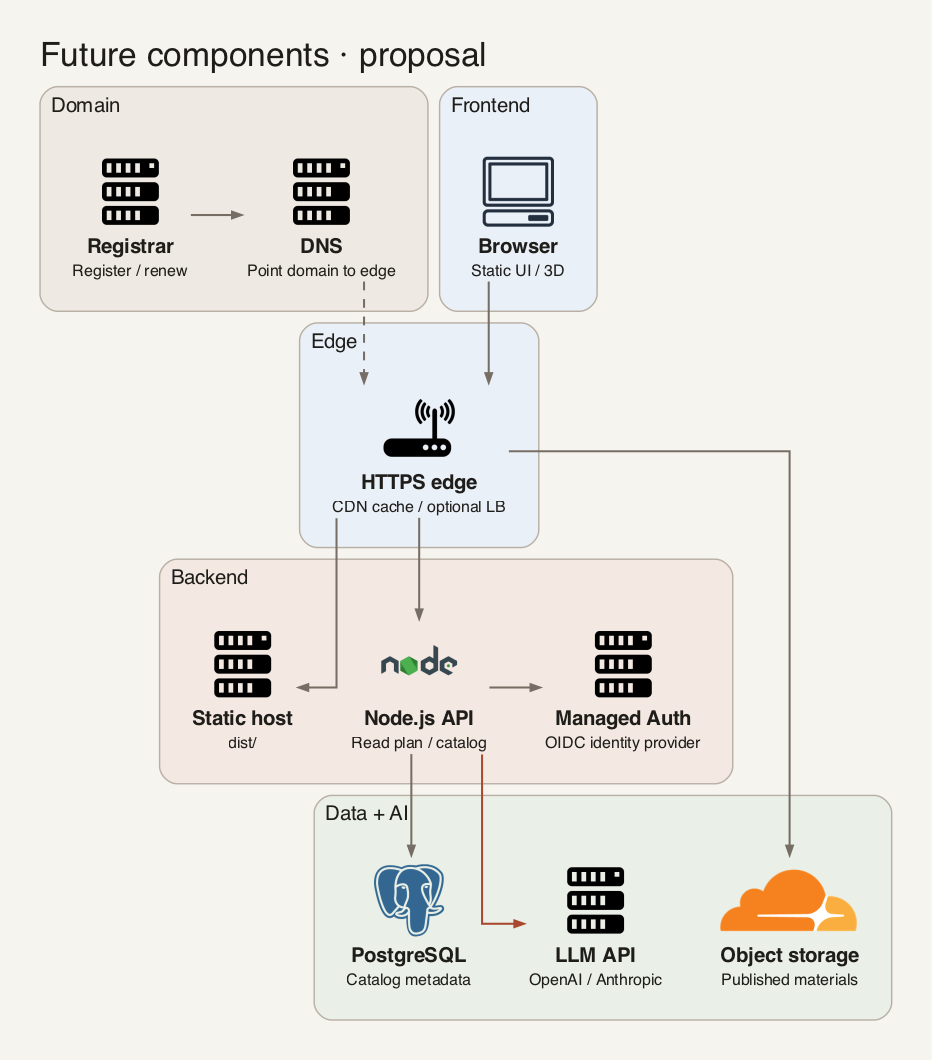
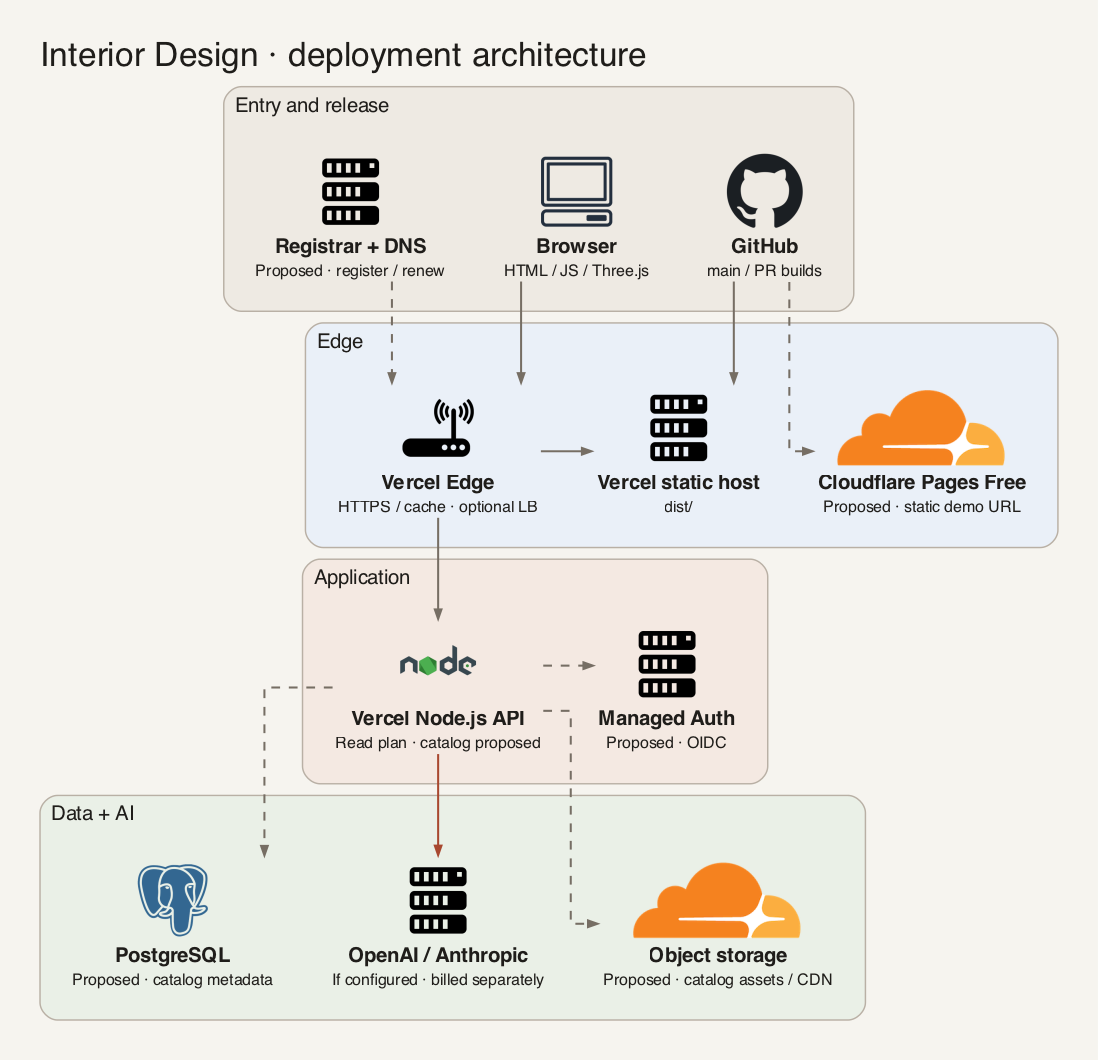
docs: centralize deployment guide and use one architecture diagram

diff --git a/docs/visual/deployment/render.py b/docs/visual/deployment/render.py
@@ -97,75 +97,34 @@ def same_row(cluster, *nodes):
             row.node(node.nodeid)
 
 
-with diagram("Current deployment · Vercel", "deployment"):
-    with layer("Build", BUILD):
-        repo = service(Github, "GitHub", "main / pull requests")
-    with layer("Frontend", FRONTEND) as frontend:
-        static = service(Server, "Vercel static site", "dist/")
-        browser = service(Client, "Browser", "Three.js / WebGL")
-        edge = service(Server, "Vercel edge", "Managed CDN / cache")
-        same_row(frontend, static, edge, browser)
-    with layer("Service", SERVICE):
-        read_plan = service(NodeJS, "Vercel Node.js Function", "Fast Route · POST /api/read-plan")
-    with layer("External", DATA):
-        model = service(Server, "OpenAI / Anthropic", "Usage billed separately")
-
-    repo >> static >> edge >> browser
-    edge >> Edge(style="dashed") >> read_plan
-    read_plan >> Edge(color=ACCENT) >> model
-
-with diagram("Proposed free static demo", "free-static-preview"):
-    with layer("Build and delivery", BUILD) as build:
-        source = service(Github, "GitHub", "Same build script")
-        pages = service(Cloudflare, "Cloudflare Pages Free", "dist/ · *.pages.dev")
-        same_row(build, source, pages)
-    with layer("Frontend", FRONTEND):
-        browser = service(Client, "Browser", "3D and sample data")
-
-    source >> pages >> browser
-
-with diagram("Future material library · proposal", "material-library"):
-    with layer("Frontend", FRONTEND):
-        browser = service(Client, "Browser", "Browse materials")
-    with layer("Service + CDN", SERVICE) as services:
-        catalog = service(NodeJS, "Catalog API", "GET /api/materials")
-        cdn = service(Cloudflare, "CDN", "Approved asset URLs")
-        same_row(services, catalog, cdn)
-    with layer("Data", DATA) as data:
-        metadata = service(Postgresql, "PostgreSQL", "Metadata + object keys")
-        files = service(Cloudflare, "R2 object storage", "Published files")
-        same_row(data, metadata, files)
-
-    browser >> catalog >> metadata
-    browser >> cdn >> files
-
-
-with diagram("Future components · proposal", "component-stack"):
-    with layer("Domain", BUILD) as domain:
-        registrar = service(Server, "Registrar", "Register / renew")
-        dns = service(Server, "DNS", "Point domain to edge")
-        same_row(domain, registrar, dns)
-    with layer("Frontend", FRONTEND):
-        browser = service(Client, "Browser", "Static UI / 3D")
-    with layer("Edge", FRONTEND):
-        edge = service(Router, "HTTPS edge", "CDN cache / optional LB")
-    with layer("Backend", SERVICE) as backend:
-        frontend = service(Server, "Static host", "dist/")
-        api = service(NodeJS, "Node.js API", "Read plan / catalog")
-        identity = service(Server, "Managed Auth", "OIDC identity provider")
-        same_row(backend, frontend, api, identity)
+with diagram("Interior Design · deployment architecture", "component-stack"):
+    with layer("Entry and release", BUILD) as entry:
+        registrar = service(Server, "Registrar + DNS", "Proposed · register / renew")
+        browser = service(Client, "Browser", "HTML / JS / Three.js")
+        repo = service(Github, "GitHub", "main / PR builds")
+        same_row(entry, registrar, browser, repo)
+    with layer("Edge", FRONTEND) as delivery:
+        edge = service(Router, "Vercel Edge", "HTTPS / cache · optional LB")
+        static = service(Server, "Vercel static host", "dist/")
+        free = service(Cloudflare, "Cloudflare Pages Free", "Proposed · static demo URL")
+        same_row(delivery, edge, static, free)
+    with layer("Application", SERVICE) as application:
+        api = service(NodeJS, "Vercel Node.js API", "Read plan · catalog proposed")
+        identity = service(Server, "Managed Auth", "Proposed · OIDC")
+        same_row(application, api, identity)
     with layer("Data + AI", DATA) as dependencies:
-        db = service(Postgresql, "PostgreSQL", "Catalog metadata")
-        objects = service(Cloudflare, "Object storage", "Published materials")
-        models = service(Server, "LLM API", "OpenAI / Anthropic")
-        same_row(dependencies, db, objects, models)
+        db = service(Postgresql, "PostgreSQL", "Proposed · catalog metadata")
+        models = service(Server, "OpenAI / Anthropic", "If configured · billed separately")
+        objects = service(Cloudflare, "Object storage", "Proposed · catalog assets / CDN")
+        same_row(dependencies, db, models, objects)
 
-    registrar >> dns
-    dns >> Edge(style="dashed") >> edge
+    registrar >> Edge(style="dashed") >> edge
     browser >> edge
-    edge >> frontend
+    repo >> static
+    repo >> Edge(style="dashed") >> free
+    edge >> static
     edge >> api
-    edge >> objects
-    api >> identity
-    api >> db
+    api >> Edge(style="dashed") >> identity
+    api >> Edge(style="dashed") >> db
+    api >> Edge(style="dashed") >> objects
     api >> Edge(color=ACCENT) >> models

diff --git a/README.md b/README.md
@@ -16,69 +16,6 @@ Describe your space with **voice or text and reference images**. Explore a **3D 
 
 ## Deployment
 
-![Current deployment on Vercel, from GitHub to the browser, Node.js Function and model provider](docs/visual/deployment/deployment.png)
+![Overall deployment diagram showing the current request path and proposed components](docs/visual/deployment/component-stack.png)
 
-- **Today.** GitHub → Vercel Git integration, the same delivery pattern as Music Taste Match. `main` builds production and pull requests get previews. [Build script](scripts/build-site.sh) · [Vercel config](vercel.json) · [Live prototype](https://interior-design-gules-pi.vercel.app/)
-- **Start with free hosting.** Keep the existing Vercel deployment and evaluate Cloudflare Pages Free in parallel for a static demo. From the repository root, run `npm ci` if dependencies are not already installed, build with `sh scripts/build-site.sh`, and publish `dist/` to the included `*.pages.dev` address. Static requests are free and unlimited. The free plan allows 500 builds per month and 25 MiB per file. Confirm access to the organization repo and reproduce the response headers in `vercel.json` before switching traffic. Real Fast Route parsing requires a separate API and usage budget. Vercel Hobby is for personal, non-commercial use and cannot connect directly to an organization-owned Git repository. [Pages limits](https://developers.cloudflare.com/pages/platform/limits/) · [Pages pricing](https://developers.cloudflare.com/pages/functions/pricing/) · [GitHub integration](https://developers.cloudflare.com/pages/configuration/git-integration/github-integration/) · [Vercel pricing](https://vercel.com/pricing) · [Git integration limits](https://vercel.com/docs/limits#git)
-
-![Proposed free static demo on Cloudflare Pages, using the same build output and sample data](docs/visual/deployment/free-static-preview.png)
-
-Regenerate the diagrams with Graphviz on your PATH and `uvx --from diagrams==0.25.1 python docs/visual/deployment/render.py`. [Diagram source](docs/visual/deployment/render.py)
-
-### Frontend build and runtime
-
-The site uses HTML, CSS and native JavaScript modules. `sh scripts/build-site.sh` assembles HTML, JavaScript, styles, images and 3D assets into `dist/`. esbuild bundles the 3D retry entry, and Vercel serves the output as static files. [Build script](scripts/build-site.sh#L7-L16) · [3D retry bundle](scripts/bundle-room.mjs#L7-L20)
-
-| Entry | What runs in the browser |
-| --- | --- |
-| [`/` · Quiet Oak](https://interior-design-gules-pi.vercel.app/) | Hash routes, demo uploads and estimates, and interactive Three.js/WebGL 3D. The main demo keeps its project state in memory. |
-| [`/fast-route/` · Fast Route](https://interior-design-gules-pi.vercel.app/fast-route/) | Quick style selection, client-rendered 3D and browser-local progress. Floor-plan recognition uses the Function below. |
-| [`/style-studio/prototype/` · Style Studio](https://interior-design-gules-pi.vercel.app/style-studio/prototype/) | Style exploration, browser-local settings and 3D preview. This entry loads Three.js from jsDelivr. |
-
-The three production HTML entry points and `oak.js` matched the files built locally from the reference commit below.
-
-### Backend and model invocation
-
-1. **Packaging.** Vercel installs dependencies from the root `package.json`. The build script produces `dist/` for the frontend. In the same Vercel project, the root `api/read-plan.js` deploys separately as a Node.js Function and imports the OpenAI and Anthropic SDKs. The demo requires no separate backend package, container, database or GPU server. [Build script](scripts/build-site.sh) · [Dependencies](package.json) · [Vercel Node.js runtime](https://vercel.com/docs/functions/runtimes/node-js)
-2. **Trigger.** Fast Route sends a floor-plan image or PDF from the browser to the same-origin `POST /api/read-plan`. The main Quiet Oak demo simulates floor-plan parsing and renders 3D and demo estimates in the browser. [Fast Route upload](prototype/fast-route/app.js#L382-L431) · [Quiet Oak upload](prototype/wireframe/oak.js#L353-L370)
-3. **Invocation.** The Function reads server-side environment variables. With an OpenAI key it calls `responses.create`. If only the Anthropic key exists, it calls `beta.messages.stream` and waits for the final message. The Function sends the file and a structured-output schema to one provider, then returns rooms and dimensions as JSON. A failed OpenAI request does not trigger a Claude request. Failed parsing preserves existing rooms or uses the demo template for the initial attempt. Model usage is billed separately. [Model calls and routing](api/read-plan.js#L13-L67) · [Browser fallback](prototype/fast-route/app.js#L413-L425)
-
-The production route returned HTTP 405 to a GET request, as designed. This verifies that the Function responds. Provider configuration and successful model invocation with a real file remain unverified. [Reference commit](https://github.com/Cathay-AI/interior-design/commit/034a1c42ea3dd1b8dd4e925a2ab2f0c79411b55f)
-
-### Components and deliverables
-
-![Proposed components covering the domain, frontend, edge, API, identity, database, object storage and LLM API](docs/visual/deployment/component-stack.png)
-
-| Component | Today | Future deliverable |
-| --- | --- | --- |
-| Domain, edge and load balancing | Vercel provides the default domain and managed ingress. The site homepage returned `x-vercel-cache: HIT`. | Registrar handles registration and renewal. DNS points to the TLS and CDN ingress. Keep managed routing with one origin. Add a load balancer, health checks and failover when multiple origins or regional resilience are needed. |
-| Frontend and cache | The static `dist/` ships independently. Read-plan responses use `no-store`. | Long CDN caching for versioned public files, revalidation for HTML, and short CDN caching for public catalog GETs if freshness permits. Keep auth, private files and read-plan responses out of shared caches. Start with the CDN cache. |
-| Backend API and LLM API | The same-origin Vercel Node.js Function handles `POST /api/read-plan` and calls the model from the server. | Deliver Node.js HTTP handlers, an OpenAPI contract and an environment-variable template. Keep model adapters on the server, with provider configuration, quotas and usage alerts. The Function is the first deployment form. |
-| Auth | Demo flows have no account service. | Add a managed OIDC provider when login, cross-device progress or moderation is needed. Deliver callback and role configuration, with identity and access checks in the API. |
-| DB and object storage | Sample data ships with the frontend. Some progress stays in the browser. | Deliver PostgreSQL schema, SQL migrations and a backup/restore procedure. For binary assets, deliver S3-compatible bucket configuration, permissions and an object manifest. |
-
-Start with a free static demo. Add services and budget as sign-in, searchable assets, or real AI parsing become necessary. The optional load balancer is for multiple origins. [Vercel CDN](https://vercel.com/docs/cdn) · [Cache headers](https://vercel.com/docs/headers/cache-control-headers) · [Load-balancing components](https://developers.cloudflare.com/load-balancing/understand-basics/load-balancing-components/) · [OIDC](https://openid.net/specs/openid-connect-core-1_0.html)
-
-### Migration options
-
-1. **Frontend and API.** Republish the same `dist/` to another static host. Keep the Node.js handlers behind a Vercel request/response adapter. When moving compute, replace the adapter and preserve paths, response contracts and timeout tests.
-2. **Data and identity.** Rehearse PostgreSQL backup/restore and verify row counts. Copy objects by key and compare the manifest. Map the OIDC `issuer` and `subject` to an internal user ID, and verify account mapping and sign-in before changing providers. Rehearse integrity checks, the write pause and rollback with your actual data volume. [PostgreSQL dump](https://www.postgresql.org/docs/current/app-pgdump.html) · [S3-compatible API](https://developers.cloudflare.com/r2/api/s3/api/)
-3. **Traffic.** Verify HTTPS, sign-in, asset delivery and read-plan on a staging domain. Keep the custom domain and switch DNS or the managed ingress to the new origin. Rehearse rollback and keep the old origin until verification is complete.
-
-### Future material library
-
-![Proposed material-library layers showing a browser, catalog API, CDN, PostgreSQL and object storage](docs/visual/deployment/material-library.png)
-
-1. **Frontend.** The browser calls `GET /api/materials` for filters and item metadata, then uses returned versioned URLs to load approved thumbnails, textures and GLB models directly from the CDN.
-2. **Service.** Start with a catalog API in the existing Vercel project. It returns published items only. A publishing flow can stage uploads in private object storage, approve the asset and its license, then publish the approved version and its catalog record. The existing read-plan Function continues to handle model calls.
-3. **Data.** Use PostgreSQL for searchable metadata such as ID, material category, style, dimensions, source, license, version, publish status and object key. Keep image and model files in S3-compatible object storage. Cloudflare R2 is one option. Use separate public and private buckets so staged files and customer floor plans stay outside the public catalog. [PostgreSQL indexes](https://www.postgresql.org/docs/current/indexes-intro.html) · [R2 public buckets](https://developers.cloudflare.com/r2/data-access/public-buckets/) · [R2 signed URLs](https://developers.cloudflare.com/r2/api/s3/presigned-urls/)
-
-Keep the current demo assets in `dist/` until the catalog needs independent updates, search, or asset approval. The proposed API and storage are future work.
-
-### Domain and DNS
-
-1. **Prototype.** Use the current Vercel URL or the included `*.pages.dev` address for a Cloudflare static preview. Domain registration costs nothing at this stage.
-2. **Public launch.** Reuse an organization-owned subdomain if one is available. For Cloudflare Pages, add the subdomain to the Pages project first, then point a DNS CNAME record to `<project>.pages.dev`. This can use the existing DNS provider. Using an apex domain such as `example.com` directly on Pages requires Cloudflare nameservers. For the full prototype on Vercel, add the domain to that project and use the DNS records it displays. [Cloudflare Pages custom domains](https://developers.cloudflare.com/pages/configuration/custom-domains/) · [Vercel custom domains](https://vercel.com/docs/domains/working-with-domains/add-a-domain)
-3. **New brand domain.** Cloudflare Registrar lists standard `.com` registration at **US$11.17 for the first year** and **US$11.17 for renewal** as of 2026-11-20. Confirm the chosen name, availability, final checkout price and renewal before purchasing. It uses Cloudflare nameservers. [Registrar pricing](https://pricing.registrar.cloudflare.com/?q=com) · [Registrar requirements](https://developers.cloudflare.com/registrar/get-started/register-domain/)
-
-Before sharing the new address, verify HTTPS and the intended site entry points. Fast Route browser-saved progress is tied to the original site address, so a custom domain starts with separate browser storage.
+[Deployment guide](docs/engineering/deployment.md)

diff --git a/docs/engineering/deployment.md b/docs/engineering/deployment.md
@@ -1,0 +1,66 @@
+# Deployment architecture and operations
+
+[繁體中文](deployment.zh-TW.md)
+
+![Overall deployment diagram showing the current request path and proposed components](../visual/deployment/component-stack.png)
+
+Solid arrows show the current deployment, including the conditional model call. Dashed arrows show proposed integrations.
+
+- **Today.** GitHub → Vercel Git integration, the same delivery pattern as Music Taste Match. `main` builds production and pull requests get previews. [Build script](../../scripts/build-site.sh) · [Vercel config](../../vercel.json) · [Live prototype](https://interior-design-gules-pi.vercel.app/)
+- **Start with free hosting.** Keep the existing Vercel deployment and evaluate Cloudflare Pages Free in parallel for a static demo. From the repository root, run `npm ci` if dependencies are not already installed, build with `sh scripts/build-site.sh`, and publish `dist/` to the included `*.pages.dev` address. Static requests are free and unlimited. The free plan allows 500 builds per month and 25 MiB per file. Confirm access to the organization repo and reproduce the response headers in `vercel.json` before switching traffic. Real Fast Route parsing requires a separate API and usage budget. Vercel Hobby is for personal, non-commercial use and cannot connect directly to an organization-owned Git repository. [Pages limits](https://developers.cloudflare.com/pages/platform/limits/) · [Pages pricing](https://developers.cloudflare.com/pages/functions/pricing/) · [GitHub integration](https://developers.cloudflare.com/pages/configuration/git-integration/github-integration/) · [Vercel pricing](https://vercel.com/pricing) · [Git integration limits](https://vercel.com/docs/limits#git)
+
+Regenerate the diagram with Graphviz on your PATH and `uvx --from diagrams==0.25.1 python docs/visual/deployment/render.py`. [Diagram source](../../docs/visual/deployment/render.py)
+
+## Frontend build and runtime
+
+The site uses HTML, CSS and native JavaScript modules. `sh scripts/build-site.sh` assembles HTML, JavaScript, styles, images and 3D assets into `dist/`. esbuild bundles the 3D retry entry, and Vercel serves the output as static files. [Build script](../../scripts/build-site.sh#L7-L16) · [3D retry bundle](../../scripts/bundle-room.mjs#L7-L20)
+
+| Entry | What runs in the browser |
+| --- | --- |
+| [`/` · Quiet Oak](https://interior-design-gules-pi.vercel.app/) | Hash routes, demo uploads and estimates, and interactive Three.js/WebGL 3D. The main demo keeps its project state in memory. |
+| [`/fast-route/` · Fast Route](https://interior-design-gules-pi.vercel.app/fast-route/) | Quick style selection, client-rendered 3D and browser-local progress. Floor-plan recognition uses the Function below. |
+| [`/style-studio/prototype/` · Style Studio](https://interior-design-gules-pi.vercel.app/style-studio/prototype/) | Style exploration, browser-local settings and 3D preview. This entry loads Three.js from jsDelivr. |
+
+The three production HTML entry points and `oak.js` matched the files built locally from the reference commit below.
+
+## Backend and model invocation
+
+1. **Packaging.** Vercel installs dependencies from the root `package.json`. The build script produces `dist/` for the frontend. In the same Vercel project, the root `api/read-plan.js` deploys separately as a Node.js Function and imports the OpenAI and Anthropic SDKs. The demo requires no separate backend package, container, database or GPU server. [Build script](../../scripts/build-site.sh) · [Dependencies](../../package.json) · [Vercel Node.js runtime](https://vercel.com/docs/functions/runtimes/node-js)
+2. **Trigger.** Fast Route sends a floor-plan image or PDF from the browser to the same-origin `POST /api/read-plan`. The main Quiet Oak demo simulates floor-plan parsing and renders 3D and demo estimates in the browser. [Fast Route upload](../../prototype/fast-route/app.js#L382-L431) · [Quiet Oak upload](../../prototype/wireframe/oak.js#L353-L370)
+3. **Invocation.** The Function reads server-side environment variables. With an OpenAI key it calls `responses.create`. If only the Anthropic key exists, it calls `beta.messages.stream` and waits for the final message. The Function sends the file and a structured-output schema to one provider, then returns rooms and dimensions as JSON. A failed OpenAI request does not trigger a Claude request. Failed parsing preserves existing rooms or uses the demo template for the initial attempt. Model usage is billed separately. [Model calls and routing](../../api/read-plan.js#L13-L67) · [Browser fallback](../../prototype/fast-route/app.js#L413-L425)
+
+The production route returned HTTP 405 to a GET request, as designed. This verifies that the Function responds. Provider configuration and successful model invocation with a real file remain unverified. [Reference commit](https://github.com/Cathay-AI/interior-design/commit/034a1c42ea3dd1b8dd4e925a2ab2f0c79411b55f)
+
+## Components and deliverables
+
+| Component | Today | Future deliverable |
+| --- | --- | --- |
+| Domain, edge and load balancing | Vercel provides the default domain and managed ingress. The site homepage returned `x-vercel-cache: HIT`. | Registrar handles registration and renewal. DNS points to the TLS and CDN ingress. Keep managed routing with one origin. Add a load balancer, health checks and failover when multiple origins or regional resilience are needed. |
+| Frontend and cache | The static `dist/` ships independently. Read-plan responses use `no-store`. | Long CDN caching for versioned public files, revalidation for HTML, and short CDN caching for public catalog GETs if freshness permits. Keep auth, private files and read-plan responses out of shared caches. Start with the CDN cache. |
+| Backend API and LLM API | The same-origin Vercel Node.js Function handles `POST /api/read-plan` and calls the model from the server. | Deliver Node.js HTTP handlers, an OpenAPI contract and an environment-variable template. Keep model adapters on the server, with provider configuration, quotas and usage alerts. The Function is the first deployment form. |
+| Auth | Demo flows have no account service. | Add a managed OIDC provider when login, cross-device progress or moderation is needed. Deliver callback and role configuration, with identity and access checks in the API. |
+| DB and object storage | Sample data ships with the frontend. Some progress stays in the browser. | Deliver PostgreSQL schema, SQL migrations and a backup/restore procedure. For binary assets, deliver S3-compatible bucket configuration, permissions and an object manifest. |
+
+Start with a free static demo. Add services and budget as sign-in, searchable assets, or real AI parsing become necessary. The optional load balancer is for multiple origins. [Vercel CDN](https://vercel.com/docs/cdn) · [Cache headers](https://vercel.com/docs/headers/cache-control-headers) · [Load-balancing components](https://developers.cloudflare.com/load-balancing/understand-basics/load-balancing-components/) · [OIDC](https://openid.net/specs/openid-connect-core-1_0.html)
+
+## Migration options
+
+1. **Frontend and API.** Republish the same `dist/` to another static host. Keep the Node.js handlers behind a Vercel request/response adapter. When moving compute, replace the adapter and preserve paths, response contracts and timeout tests.
+2. **Data and identity.** Rehearse PostgreSQL backup/restore and verify row counts. Copy objects by key and compare the manifest. Map the OIDC `issuer` and `subject` to an internal user ID, and verify account mapping and sign-in before changing providers. Rehearse integrity checks, the write pause and rollback with your actual data volume. [PostgreSQL dump](https://www.postgresql.org/docs/current/app-pgdump.html) · [S3-compatible API](https://developers.cloudflare.com/r2/api/s3/api/)
+3. **Traffic.** Verify HTTPS, sign-in, asset delivery and read-plan on a staging domain. Keep the custom domain and switch DNS or the managed ingress to the new origin. Rehearse rollback and keep the old origin until verification is complete.
+
+## Future material library
+
+1. **Frontend.** The browser calls `GET /api/materials` for filters and item metadata, then uses returned versioned URLs to load approved thumbnails, textures and GLB models directly from the CDN.
+2. **Service.** Start with a catalog API in the existing Vercel project. It returns published items only. A publishing flow can stage uploads in private object storage, approve the asset and its license, then publish the approved version and its catalog record. The existing read-plan Function continues to handle model calls.
+3. **Data.** Use PostgreSQL for searchable metadata such as ID, material category, style, dimensions, source, license, version, publish status and object key. Keep image and model files in S3-compatible object storage. Cloudflare R2 is one option. Use separate public and private buckets so staged files and customer floor plans stay outside the public catalog. [PostgreSQL indexes](https://www.postgresql.org/docs/current/indexes-intro.html) · [R2 public buckets](https://developers.cloudflare.com/r2/data-access/public-buckets/) · [R2 signed URLs](https://developers.cloudflare.com/r2/api/s3/presigned-urls/)
+
+Keep the current demo assets in `dist/` until the catalog needs independent updates, search, or asset approval. The proposed API and storage are future work.
+
+## Domain and DNS
+
+1. **Prototype.** Use the current Vercel URL or the included `*.pages.dev` address for a Cloudflare static preview. Domain registration costs nothing at this stage.
+2. **Public launch.** Reuse an organization-owned subdomain if one is available. For Cloudflare Pages, add the subdomain to the Pages project first, then point a DNS CNAME record to `<project>.pages.dev`. This can use the existing DNS provider. Using an apex domain such as `example.com` directly on Pages requires Cloudflare nameservers. For the full prototype on Vercel, add the domain to that project and use the DNS records it displays. [Cloudflare Pages custom domains](https://developers.cloudflare.com/pages/configuration/custom-domains/) · [Vercel custom domains](https://vercel.com/docs/domains/working-with-domains/add-a-domain)
+3. **New brand domain.** Cloudflare Registrar lists standard `.com` registration at **US$11.17 for the first year** and **US$11.17 for renewal** as of 2026-11-20. Confirm the chosen name, availability, final checkout price and renewal before purchasing. It uses Cloudflare nameservers. [Registrar pricing](https://pricing.registrar.cloudflare.com/?q=com) · [Registrar requirements](https://developers.cloudflare.com/registrar/get-started/register-domain/)
+
+Before sharing the new address, verify HTTPS and the intended site entry points. Fast Route browser-saved progress is tied to the original site address, so a custom domain starts with separate browser storage.

diff --git a/README.zh-TW.md b/README.zh-TW.md
@@ -16,69 +16,6 @@
 
 ## 部署架構
 
-![現行 Vercel 部署，涵蓋 GitHub、瀏覽器、Node.js Function 與模型供應商](docs/visual/deployment/deployment.png)
+![整體部署元件圖，實線為現行路徑，虛線為規劃元件](docs/visual/deployment/component-stack.png)
 
-- **現行部署。** 採用和 Music Taste Match 相同的 GitHub → Vercel 模式。`main` 建置正式站，PR 建置預覽。[建置腳本](scripts/build-site.sh) · [Vercel 設定](vercel.json) · [目前原型](https://interior-design-gules-pi.vercel.app/)
-- **免費起步。** 建議保留既有 Vercel，先平行驗證 Cloudflare Pages Free 的靜態展示。在 repo 根目錄用 `npm ci` 安裝依賴，建置命令為 `sh scripts/build-site.sh`，發佈目錄為 `dist/`，先用附的 `*.pages.dev` 網址。靜態請求免費且不限量，免費版每月 500 次建置、單檔上限 25 MiB。切換前先確認組織 repo 授權，並比對 `vercel.json` 的回應標頭。Fast Route 真實 AI 讀圖需要另外接 API 並編列用量預算。Vercel Hobby 限個人非商用，且無法直接連接 GitHub 組織擁有的 repo。[Pages 限額](https://developers.cloudflare.com/pages/platform/limits/) · [Pages 計費](https://developers.cloudflare.com/pages/functions/pricing/) · [GitHub 整合](https://developers.cloudflare.com/pages/configuration/git-integration/github-integration/) · [Vercel 方案](https://vercel.com/pricing) · [Git 整合限制](https://vercel.com/docs/limits#git)
-
-![建議的 Cloudflare Pages 免費靜態展示，沿用同一份建置輸出和示意資料](docs/visual/deployment/free-static-preview.png)
-
-重畫架構圖需先安裝 Graphviz，再執行 `uvx --from diagrams==0.25.1 python docs/visual/deployment/render.py`。[圖檔原始碼](docs/visual/deployment/render.py)
-
-### 前端打包與執行
-
-前端用原生 HTML、CSS 和 JavaScript 模組。`sh scripts/build-site.sh` 把頁面、程式、樣式、圖片和 3D 素材組裝成 `dist/`。esbuild 負責打包 3D 重試入口，Vercel 將建置結果當靜態檔提供。[建置腳本](scripts/build-site.sh#L7-L16) · [3D 重試打包](scripts/bundle-room.mjs#L7-L20)
-
-| 入口 | 瀏覽器負責什麼 |
-| --- | --- |
-| [`/` · 靜謐橡木](https://interior-design-gules-pi.vercel.app/) | 網址 `#` 後的頁內導航、示意讀圖與估價、Three.js／WebGL 互動 3D。主站的展示專案狀態存在頁面記憶體。 |
-| [`/fast-route/` · 快找風格](https://interior-design-gules-pi.vercel.app/fast-route/) | 快速選風格、瀏覽器繪製 3D、以 `localStorage` 在同一瀏覽器保留進度。真正讀平面圖時會向下方 Function 送出檔案。 |
-| [`/style-studio/prototype/` · 風格實驗室](https://interior-design-gules-pi.vercel.app/style-studio/prototype/) | 探索風格、在瀏覽器保留設定、預覽 3D。這個入口從 jsDelivr 載入 Three.js。 |
-
-正式站的三個 HTML 入口與 `oak.js` 已逐檔比對，雜湊與下方基準提交的本機建置相同。
-
-### 後端打包與 LLM 呼叫
-
-1. **怎麼包。** Vercel 從 repo 根目錄的 `package.json` 安裝依賴。建置腳本輸出前端靜態檔 `dist/`，同一 Vercel 專案另將根目錄的 `api/read-plan.js` 部署成一支 Node.js Function，由它載入 OpenAI 與 Anthropic SDK。展示無需另建後端套件、容器、資料庫或 GPU 主機。[建置腳本](scripts/build-site.sh) · [套件依賴](package.json) · [Vercel Node.js runtime](https://vercel.com/docs/functions/runtimes/node-js)
-2. **何時觸發。** 快找風格收到平面圖圖片或 PDF 時，瀏覽器送同網域的 `POST /api/read-plan`。首頁「靜謐橡木」走示意讀圖，3D 與示意估價在瀏覽器處理。[快找風格上傳](prototype/fast-route/app.js#L382-L431) · [主站上傳](prototype/wireframe/oak.js#L353-L370)
-3. **在哪呼叫。** Function 從伺服器環境取金鑰。有 OpenAI 金鑰就呼叫 `responses.create`，只有 Anthropic 金鑰時才呼叫 `beta.messages.stream` 並等待完整回應。Function 把檔案與輸出格式送到選定的供應商，再回傳房間和尺寸的 JSON。OpenAI 呼叫失敗時不會切到 Claude。解析失敗時，前端保留既有房間；首次解析失敗則顯示範例。模型用量另計。[模型呼叫與選擇](api/read-plan.js#L13-L67) · [前端備援](prototype/fast-route/app.js#L413-L425)
-
-正式站對 GET 回傳預期的 HTTP 405，確認 Function 可達；線上的供應商設定與實際檔案解析成功仍待驗證。[基準提交](https://github.com/Cathay-AI/interior-design/commit/034a1c42ea3dd1b8dd4e925a2ab2f0c79411b55f)
-
-### 元件與交付形式
-
-![未來元件圖，涵蓋網域、前端、Edge、API、Auth、資料庫、物件儲存與 LLM API](docs/visual/deployment/component-stack.png)
-
-| 元件 | 現況 | 未來交付形式 |
-| --- | --- | --- |
-| 網域、Edge、負載平衡 | 使用 Vercel 預設網域與代管入口。站台首頁實測 `x-vercel-cache: HIT`。 | 註冊與續約交由註冊商，DNS 指向平台入口，平台終結 TLS 並提供 CDN。單一來源沿用代管路由。有第二個來源、跨區容錯需求時，再配置負載平衡、健康檢查與備援切換。 |
-| 前端、快取 | `dist/` 靜態檔獨立交付。目前讀圖回應為 `no-store`。 | 版本化的公開素材設長效 CDN 快取。HTML 保留重新驗證，公開型錄 GET 依新鮮度設短快取。登入、私有檔與讀圖回應維持 `no-store`。初期使用 CDN 即可。 |
-| 後端 API、LLM API | Vercel Node.js Function 同網域接 `POST /api/read-plan`，從伺服器呼叫模型。 | 交付 Node.js HTTP handler、OpenAPI 契約及環境變數範本。保持模型介接在伺服器，透過供應商設定、配額與用量告警管理。現有 Function 可作為第一個部署形態。 |
-| Auth | 目前示意流程無帳號服務。 | 需要登入、跨裝置續作或素材審核時，接代管 OIDC 服務。交付回呼網址、角色與權限規格，由 API 驗證身分與存取權。 |
-| DB、物件儲存 | 示意資料隨前端提供，部分進度留在瀏覽器。 | PostgreSQL 交付 schema、SQL migrations 與備份還原方式。素材二進位檔用 S3 相容儲存，交付公開及私有 bucket、權限與檔案清單。 |
-
-先以免費靜態展示起步。有登入、可搜尋素材庫或真實 AI 讀圖需求，再加入對應服務和預算。圖上的負載平衡是多來源才啟用的選項。[Vercel CDN](https://vercel.com/docs/cdn) · [快取設定](https://vercel.com/docs/headers/cache-control-headers) · [負載平衡元件](https://developers.cloudflare.com/load-balancing/understand-basics/load-balancing-components/) · [OIDC](https://openid.net/specs/openid-connect-core-1_0.html)
-
-### 遷移彈性
-
-1. **搬前端與 API。** 以同一份 `dist/` 部署到新靜態主機。把 Node.js handler 與 Vercel 的請求／回應介面留在轉接層，搬主機時更換轉接層並保留 API 路徑、回應格式及逾時測試。
-2. **搬資料與身分。** PostgreSQL 先備份還原並驗證筆數，物件按 key 搬遷並核對清單。站內使用內部 user ID 對應 OIDC `issuer`／`subject`，更換 Auth 供應商時另行驗證帳號對應與重新登入。資料完整性、停寫窗口與回退方式依實際資料量驗證。[PostgreSQL 匯出](https://www.postgresql.org/docs/current/app-pgdump.html) · [S3 相容 API](https://developers.cloudflare.com/r2/api/s3/api/)
-3. **切流量。** 在預備網域驗證 HTTPS、登入、素材讀取及讀圖 API。保留自訂網域，切換 DNS 或代管入口指向。先測回退並保留舊來源到驗證完成。
-
-### 未來素材庫配置
-
-![未來素材庫分層，包含瀏覽器、型錄 API、CDN、PostgreSQL 與物件儲存](docs/visual/deployment/material-library.png)
-
-1. **前端層。** 瀏覽器透過 `GET /api/materials` 查型錄及篩選，再用回傳的版本化網址，直接從 CDN 讀取已發布的縮圖、貼圖與 GLB 3D 模型。
-2. **服務層。** 初期可在同一 Vercel 專案加素材 API，只回傳已發布的品項。素材先上傳到私有暫存區，確認授權與檔案品質後，再發布該版本與型錄記錄。現有讀平面圖的 Function 繼續負責 LLM 呼叫。
-3. **資料層。** PostgreSQL 存可搜尋的 ID、材質分類、風格、尺寸、來源、授權、版本、發布狀態及物件鍵。圖片與 3D 檔放 S3 相容的物件儲存，可評估 Cloudflare R2。公開素材和私有檔案使用分開的儲存桶，待審素材與屋主平面圖留在公開型錄之外。[PostgreSQL 索引](https://www.postgresql.org/docs/current/indexes-intro.html) · [R2 公開儲存桶](https://developers.cloudflare.com/r2/data-access/public-buckets/) · [R2 簽名網址](https://developers.cloudflare.com/r2/api/s3/presigned-urls/)
-
-展示階段沿用 `dist/` 的既有素材。等素材需要獨立上架、搜尋或審核，再新增 API 與儲存。
-
-### 網域與 DNS
-
-1. **原型階段。** 沿用現有 Vercel 網址。Cloudflare 靜態展示如果建好，也能先用附的 `*.pages.dev` 網址，這階段網域註冊費為零。
-2. **公開入口。** 如果組織有可用網域，優先借用子網域。用 Cloudflare Pages 時，先把子網域加到 Pages 專案，再於現有 DNS 設一筆 CNAME 指向 `<project>.pages.dev`。要在 Pages 直接用 `example.com` 這種根網域，需使用 Cloudflare 名稱伺服器。完整原型若留在 Vercel，就把網域加到 Vercel 專案，照它顯示的 DNS 記錄設定。[Cloudflare Pages 綁定網域](https://developers.cloudflare.com/pages/configuration/custom-domains/) · [Vercel 綁定網域](https://vercel.com/docs/domains/working-with-domains/add-a-domain)
-3. **新品牌網域。** 2026-11-20 查到 Cloudflare Registrar 一般 `.com` **首年 US$11.17、續約 US$11.17／年**。購買前先確認名稱、可用性、結帳總價與續約價。透過該註冊商購買須使用 Cloudflare 名稱伺服器。[註冊與續約價](https://pricing.registrar.cloudflare.com/?q=com) · [註冊條件](https://developers.cloudflare.com/registrar/get-started/register-domain/)
-
-公開前驗證新網址的 HTTPS 和入口。Fast Route 的瀏覽器存檔會留在原網址，新網域會開自己的存檔。
+[部署架構與操作文件](docs/engineering/deployment.zh-TW.md)

diff --git a/docs/engineering/deployment.zh-TW.md b/docs/engineering/deployment.zh-TW.md
@@ -1,0 +1,66 @@
+# 部署架構與操作規劃
+
+[English](deployment.md)
+
+![整體部署元件圖，實線為現行路徑，虛線為規劃元件](../visual/deployment/component-stack.png)
+
+實線表示現行部署路徑，模型呼叫需有供應商設定。虛線表示規劃中的服務或連線。
+
+- **現行部署。** 採用和 Music Taste Match 相同的 GitHub → Vercel 模式。`main` 建置正式站，PR 建置預覽。[建置腳本](../../scripts/build-site.sh) · [Vercel 設定](../../vercel.json) · [目前原型](https://interior-design-gules-pi.vercel.app/)
+- **免費起步。** 建議保留既有 Vercel，先平行驗證 Cloudflare Pages Free 的靜態展示。在 repo 根目錄用 `npm ci` 安裝依賴，建置命令為 `sh scripts/build-site.sh`，發佈目錄為 `dist/`，先用附的 `*.pages.dev` 網址。靜態請求免費且不限量，免費版每月 500 次建置、單檔上限 25 MiB。切換前先確認組織 repo 授權，並比對 `vercel.json` 的回應標頭。Fast Route 真實 AI 讀圖需要另外接 API 並編列用量預算。Vercel Hobby 限個人非商用，且無法直接連接 GitHub 組織擁有的 repo。[Pages 限額](https://developers.cloudflare.com/pages/platform/limits/) · [Pages 計費](https://developers.cloudflare.com/pages/functions/pricing/) · [GitHub 整合](https://developers.cloudflare.com/pages/configuration/git-integration/github-integration/) · [Vercel 方案](https://vercel.com/pricing) · [Git 整合限制](https://vercel.com/docs/limits#git)
+
+重畫總圖需先安裝 Graphviz，再執行 `uvx --from diagrams==0.25.1 python docs/visual/deployment/render.py`。[圖檔原始碼](../../docs/visual/deployment/render.py)
+
+## 前端打包與執行
+
+前端用原生 HTML、CSS 和 JavaScript 模組。`sh scripts/build-site.sh` 把頁面、程式、樣式、圖片和 3D 素材組裝成 `dist/`。esbuild 負責打包 3D 重試入口，Vercel 將建置結果當靜態檔提供。[建置腳本](../../scripts/build-site.sh#L7-L16) · [3D 重試打包](../../scripts/bundle-room.mjs#L7-L20)
+
+| 入口 | 瀏覽器負責什麼 |
+| --- | --- |
+| [`/` · 靜謐橡木](https://interior-design-gules-pi.vercel.app/) | 網址 `#` 後的頁內導航、示意讀圖與估價、Three.js／WebGL 互動 3D。主站的展示專案狀態存在頁面記憶體。 |
+| [`/fast-route/` · 快找風格](https://interior-design-gules-pi.vercel.app/fast-route/) | 快速選風格、瀏覽器繪製 3D、以 `localStorage` 在同一瀏覽器保留進度。真正讀平面圖時會向下方 Function 送出檔案。 |
+| [`/style-studio/prototype/` · 風格實驗室](https://interior-design-gules-pi.vercel.app/style-studio/prototype/) | 探索風格、在瀏覽器保留設定、預覽 3D。這個入口從 jsDelivr 載入 Three.js。 |
+
+正式站的三個 HTML 入口與 `oak.js` 已逐檔比對，雜湊與下方基準提交的本機建置相同。
+
+## 後端打包與 LLM 呼叫
+
+1. **怎麼包。** Vercel 從 repo 根目錄的 `package.json` 安裝依賴。建置腳本輸出前端靜態檔 `dist/`，同一 Vercel 專案另將根目錄的 `api/read-plan.js` 部署成一支 Node.js Function，由它載入 OpenAI 與 Anthropic SDK。展示無需另建後端套件、容器、資料庫或 GPU 主機。[建置腳本](../../scripts/build-site.sh) · [套件依賴](../../package.json) · [Vercel Node.js runtime](https://vercel.com/docs/functions/runtimes/node-js)
+2. **何時觸發。** 快找風格收到平面圖圖片或 PDF 時，瀏覽器送同網域的 `POST /api/read-plan`。首頁「靜謐橡木」走示意讀圖，3D 與示意估價在瀏覽器處理。[快找風格上傳](../../prototype/fast-route/app.js#L382-L431) · [主站上傳](../../prototype/wireframe/oak.js#L353-L370)
+3. **在哪呼叫。** Function 從伺服器環境取金鑰。有 OpenAI 金鑰就呼叫 `responses.create`，只有 Anthropic 金鑰時才呼叫 `beta.messages.stream` 並等待完整回應。Function 把檔案與輸出格式送到選定的供應商，再回傳房間和尺寸的 JSON。OpenAI 呼叫失敗時不會切到 Claude。解析失敗時，前端保留既有房間；首次解析失敗則顯示範例。模型用量另計。[模型呼叫與選擇](../../api/read-plan.js#L13-L67) · [前端備援](../../prototype/fast-route/app.js#L413-L425)
+
+正式站對 GET 回傳預期的 HTTP 405，確認 Function 可達；線上的供應商設定與實際檔案解析成功仍待驗證。[基準提交](https://github.com/Cathay-AI/interior-design/commit/034a1c42ea3dd1b8dd4e925a2ab2f0c79411b55f)
+
+## 元件與交付形式
+
+| 元件 | 現況 | 未來交付形式 |
+| --- | --- | --- |
+| 網域、Edge、負載平衡 | 使用 Vercel 預設網域與代管入口。站台首頁實測 `x-vercel-cache: HIT`。 | 註冊與續約交由註冊商，DNS 指向平台入口，平台終結 TLS 並提供 CDN。單一來源沿用代管路由。有第二個來源、跨區容錯需求時，再配置負載平衡、健康檢查與備援切換。 |
+| 前端、快取 | `dist/` 靜態檔獨立交付。目前讀圖回應為 `no-store`。 | 版本化的公開素材設長效 CDN 快取。HTML 保留重新驗證，公開型錄 GET 依新鮮度設短快取。登入、私有檔與讀圖回應維持 `no-store`。初期使用 CDN 即可。 |
+| 後端 API、LLM API | Vercel Node.js Function 同網域接 `POST /api/read-plan`，從伺服器呼叫模型。 | 交付 Node.js HTTP handler、OpenAPI 契約及環境變數範本。保持模型介接在伺服器，透過供應商設定、配額與用量告警管理。現有 Function 可作為第一個部署形態。 |
+| Auth | 目前示意流程無帳號服務。 | 需要登入、跨裝置續作或素材審核時，接代管 OIDC 服務。交付回呼網址、角色與權限規格，由 API 驗證身分與存取權。 |
+| DB、物件儲存 | 示意資料隨前端提供，部分進度留在瀏覽器。 | PostgreSQL 交付 schema、SQL migrations 與備份還原方式。素材二進位檔用 S3 相容儲存，交付公開及私有 bucket、權限與檔案清單。 |
+
+先以免費靜態展示起步。有登入、可搜尋素材庫或真實 AI 讀圖需求，再加入對應服務和預算。圖上的負載平衡是多來源才啟用的選項。[Vercel CDN](https://vercel.com/docs/cdn) · [快取設定](https://vercel.com/docs/headers/cache-control-headers) · [負載平衡元件](https://developers.cloudflare.com/load-balancing/understand-basics/load-balancing-components/) · [OIDC](https://openid.net/specs/openid-connect-core-1_0.html)
+
+## 遷移彈性
+
+1. **搬前端與 API。** 以同一份 `dist/` 部署到新靜態主機。把 Node.js handler 與 Vercel 的請求／回應介面留在轉接層，搬主機時更換轉接層並保留 API 路徑、回應格式及逾時測試。
+2. **搬資料與身分。** PostgreSQL 先備份還原並驗證筆數，物件按 key 搬遷並核對清單。站內使用內部 user ID 對應 OIDC `issuer`／`subject`，更換 Auth 供應商時另行驗證帳號對應與重新登入。資料完整性、停寫窗口與回退方式依實際資料量驗證。[PostgreSQL 匯出](https://www.postgresql.org/docs/current/app-pgdump.html) · [S3 相容 API](https://developers.cloudflare.com/r2/api/s3/api/)
+3. **切流量。** 在預備網域驗證 HTTPS、登入、素材讀取及讀圖 API。保留自訂網域，切換 DNS 或代管入口指向。先測回退並保留舊來源到驗證完成。
+
+## 未來素材庫配置
+
+1. **前端層。** 瀏覽器透過 `GET /api/materials` 查型錄及篩選，再用回傳的版本化網址，直接從 CDN 讀取已發布的縮圖、貼圖與 GLB 3D 模型。
+2. **服務層。** 初期可在同一 Vercel 專案加素材 API，只回傳已發布的品項。素材先上傳到私有暫存區，確認授權與檔案品質後，再發布該版本與型錄記錄。現有讀平面圖的 Function 繼續負責 LLM 呼叫。
+3. **資料層。** PostgreSQL 存可搜尋的 ID、材質分類、風格、尺寸、來源、授權、版本、發布狀態及物件鍵。圖片與 3D 檔放 S3 相容的物件儲存，可評估 Cloudflare R2。公開素材和私有檔案使用分開的儲存桶，待審素材與屋主平面圖留在公開型錄之外。[PostgreSQL 索引](https://www.postgresql.org/docs/current/indexes-intro.html) · [R2 公開儲存桶](https://developers.cloudflare.com/r2/data-access/public-buckets/) · [R2 簽名網址](https://developers.cloudflare.com/r2/api/s3/presigned-urls/)
+
+展示階段沿用 `dist/` 的既有素材。等素材需要獨立上架、搜尋或審核，再新增 API 與儲存。
+
+## 網域與 DNS
+
+1. **原型階段。** 沿用現有 Vercel 網址。Cloudflare 靜態展示如果建好，也能先用附的 `*.pages.dev` 網址，這階段網域註冊費為零。
+2. **公開入口。** 如果組織有可用網域，優先借用子網域。用 Cloudflare Pages 時，先把子網域加到 Pages 專案，再於現有 DNS 設一筆 CNAME 指向 `<project>.pages.dev`。要在 Pages 直接用 `example.com` 這種根網域，需使用 Cloudflare 名稱伺服器。完整原型若留在 Vercel，就把網域加到 Vercel 專案，照它顯示的 DNS 記錄設定。[Cloudflare Pages 綁定網域](https://developers.cloudflare.com/pages/configuration/custom-domains/) · [Vercel 綁定網域](https://vercel.com/docs/domains/working-with-domains/add-a-domain)
+3. **新品牌網域。** 2026-11-20 查到 Cloudflare Registrar 一般 `.com` **首年 US$11.17、續約 US$11.17／年**。購買前先確認名稱、可用性、結帳總價與續約價。透過該註冊商購買須使用 Cloudflare 名稱伺服器。[註冊與續約價](https://pricing.registrar.cloudflare.com/?q=com) · [註冊條件](https://developers.cloudflare.com/registrar/get-started/register-domain/)
+
+公開前驗證新網址的 HTTPS 和入口。Fast Route 的瀏覽器存檔會留在原網址，新網域會開自己的存檔。

diff --git a/docs/README.md b/docs/README.md
@@ -12,6 +12,6 @@ English · [繁體中文](README.zh-TW.md)
 
 **The first milestone:** Mika and Victor complete the basic flow; validate budget clarity and willingness to upgrade.
 
-[Product & MVP](product/mvp.md) · [Team](delivery/team.md) · [Roadmap](delivery/roadmap.md) · [Architecture](engineering/architecture.md) · [Knowledge sources](engineering/taiwan-knowledge.md) · [Project](https://github.com/orgs/Cathay-AI/projects/1/views/4)
+[Product & MVP](product/mvp.md) · [Team](delivery/team.md) · [Roadmap](delivery/roadmap.md) · [Architecture](engineering/architecture.md) · [Deployment guide](engineering/deployment.md) · [Knowledge sources](engineering/taiwan-knowledge.md) · [Project](https://github.com/orgs/Cathay-AI/projects/1/views/4)
 
 <sub>Product concept, not a live design service. Detailed specifications currently use Traditional Chinese.</sub>

diff --git a/docs/README.zh-TW.md b/docs/README.zh-TW.md
@@ -12,6 +12,6 @@
 
 **首輪目標：** Mika、Victor 完成基本流程，驗證預算理解與升級意願。
 
-[產品與 MVP](product/mvp.md) · [分工](delivery/team.md) · [Roadmap](delivery/roadmap.md) · [架構](engineering/architecture.md) · [知識來源](engineering/taiwan-knowledge.md) · [看板](https://github.com/orgs/Cathay-AI/projects/1/views/4)
+[產品與 MVP](product/mvp.md) · [分工](delivery/team.md) · [Roadmap](delivery/roadmap.md) · [架構](engineering/architecture.md) · [部署架構與操作文件](engineering/deployment.zh-TW.md) · [知識來源](engineering/taiwan-knowledge.md) · [看板](https://github.com/orgs/Cathay-AI/projects/1/views/4)
 
 <sub>目前為產品構想，尚未提供正式設計服務。</sub>
